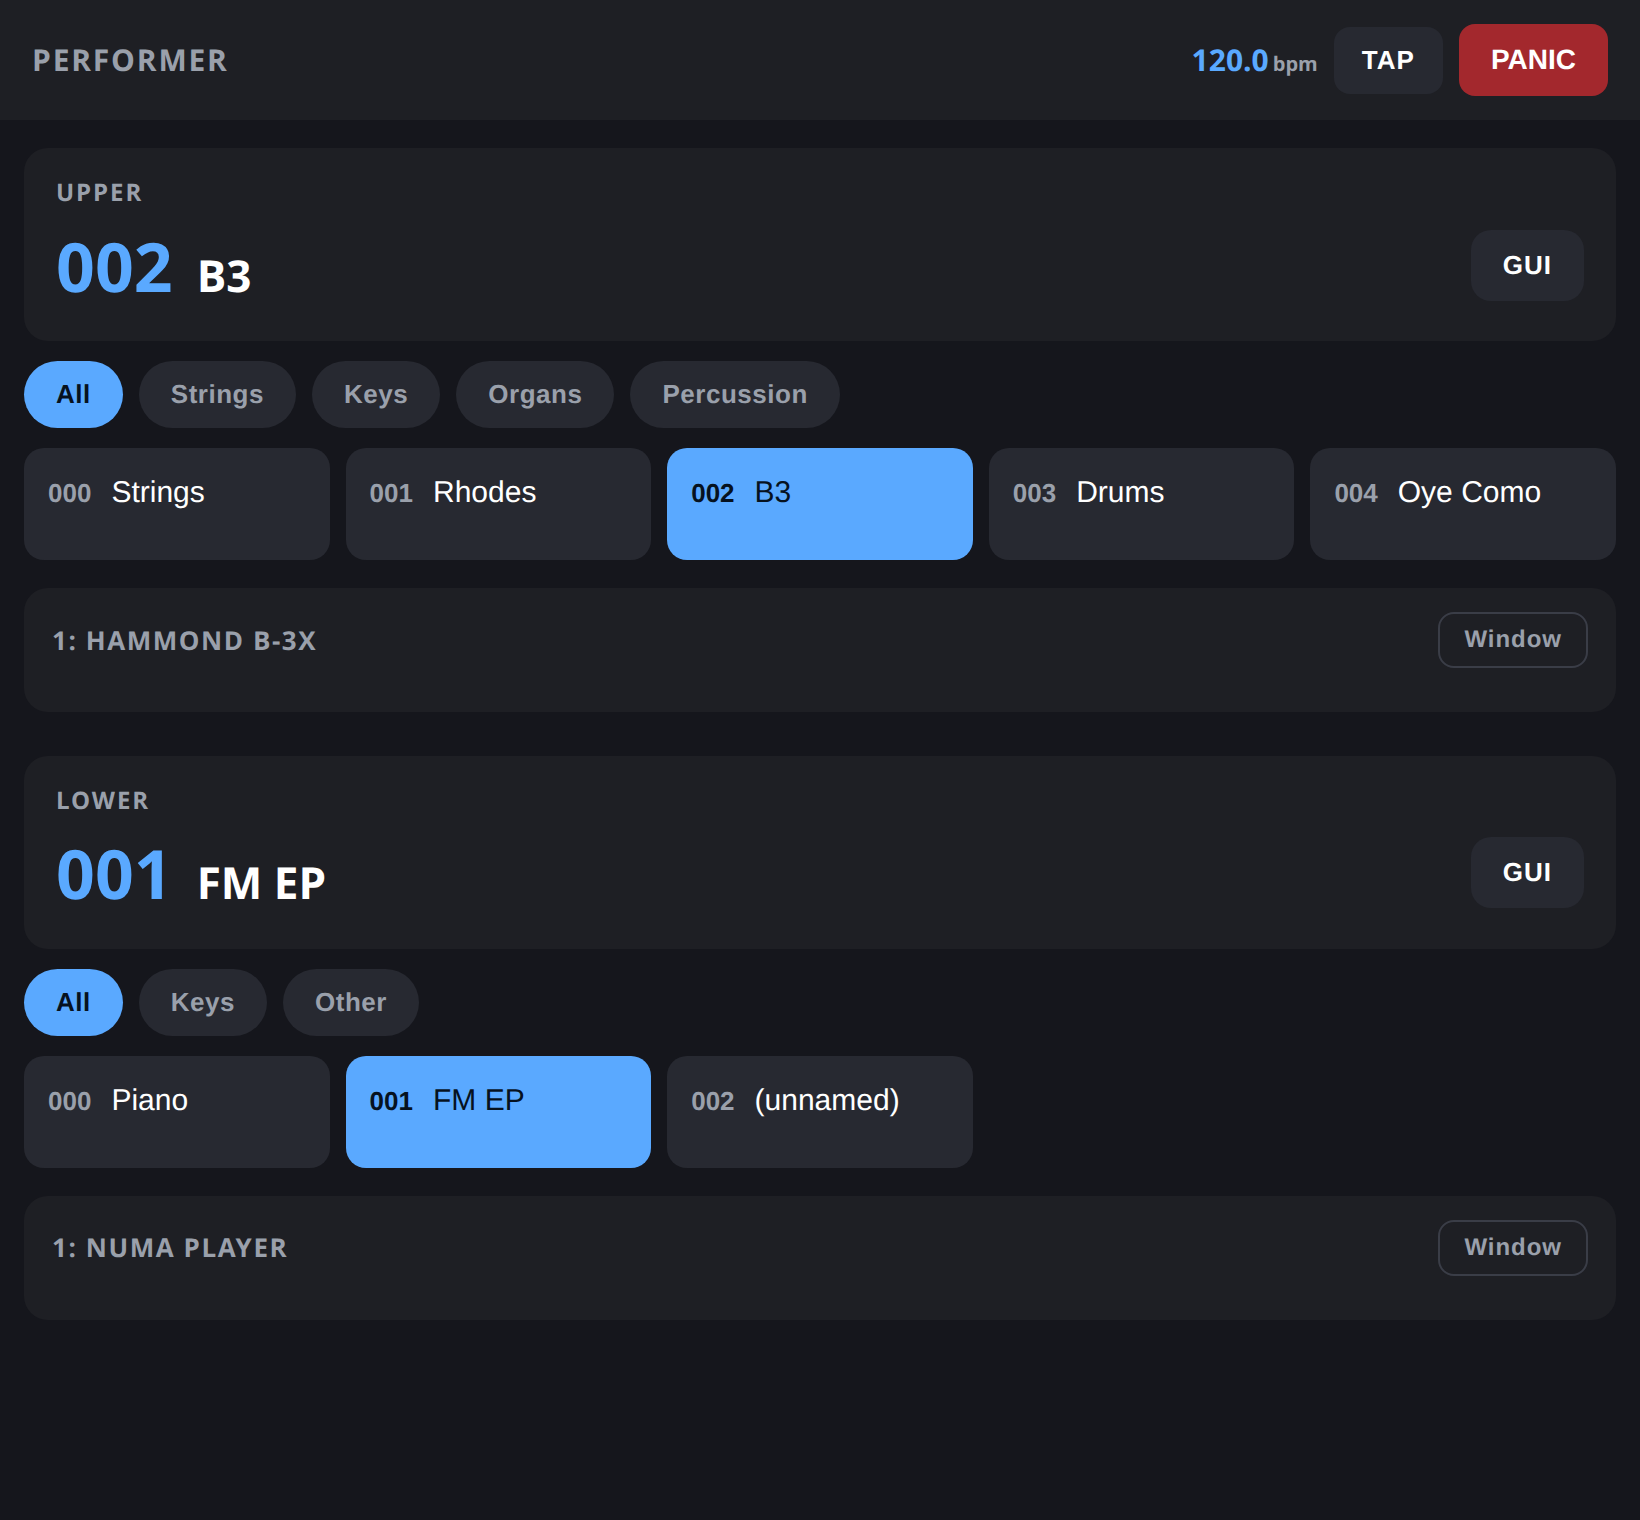
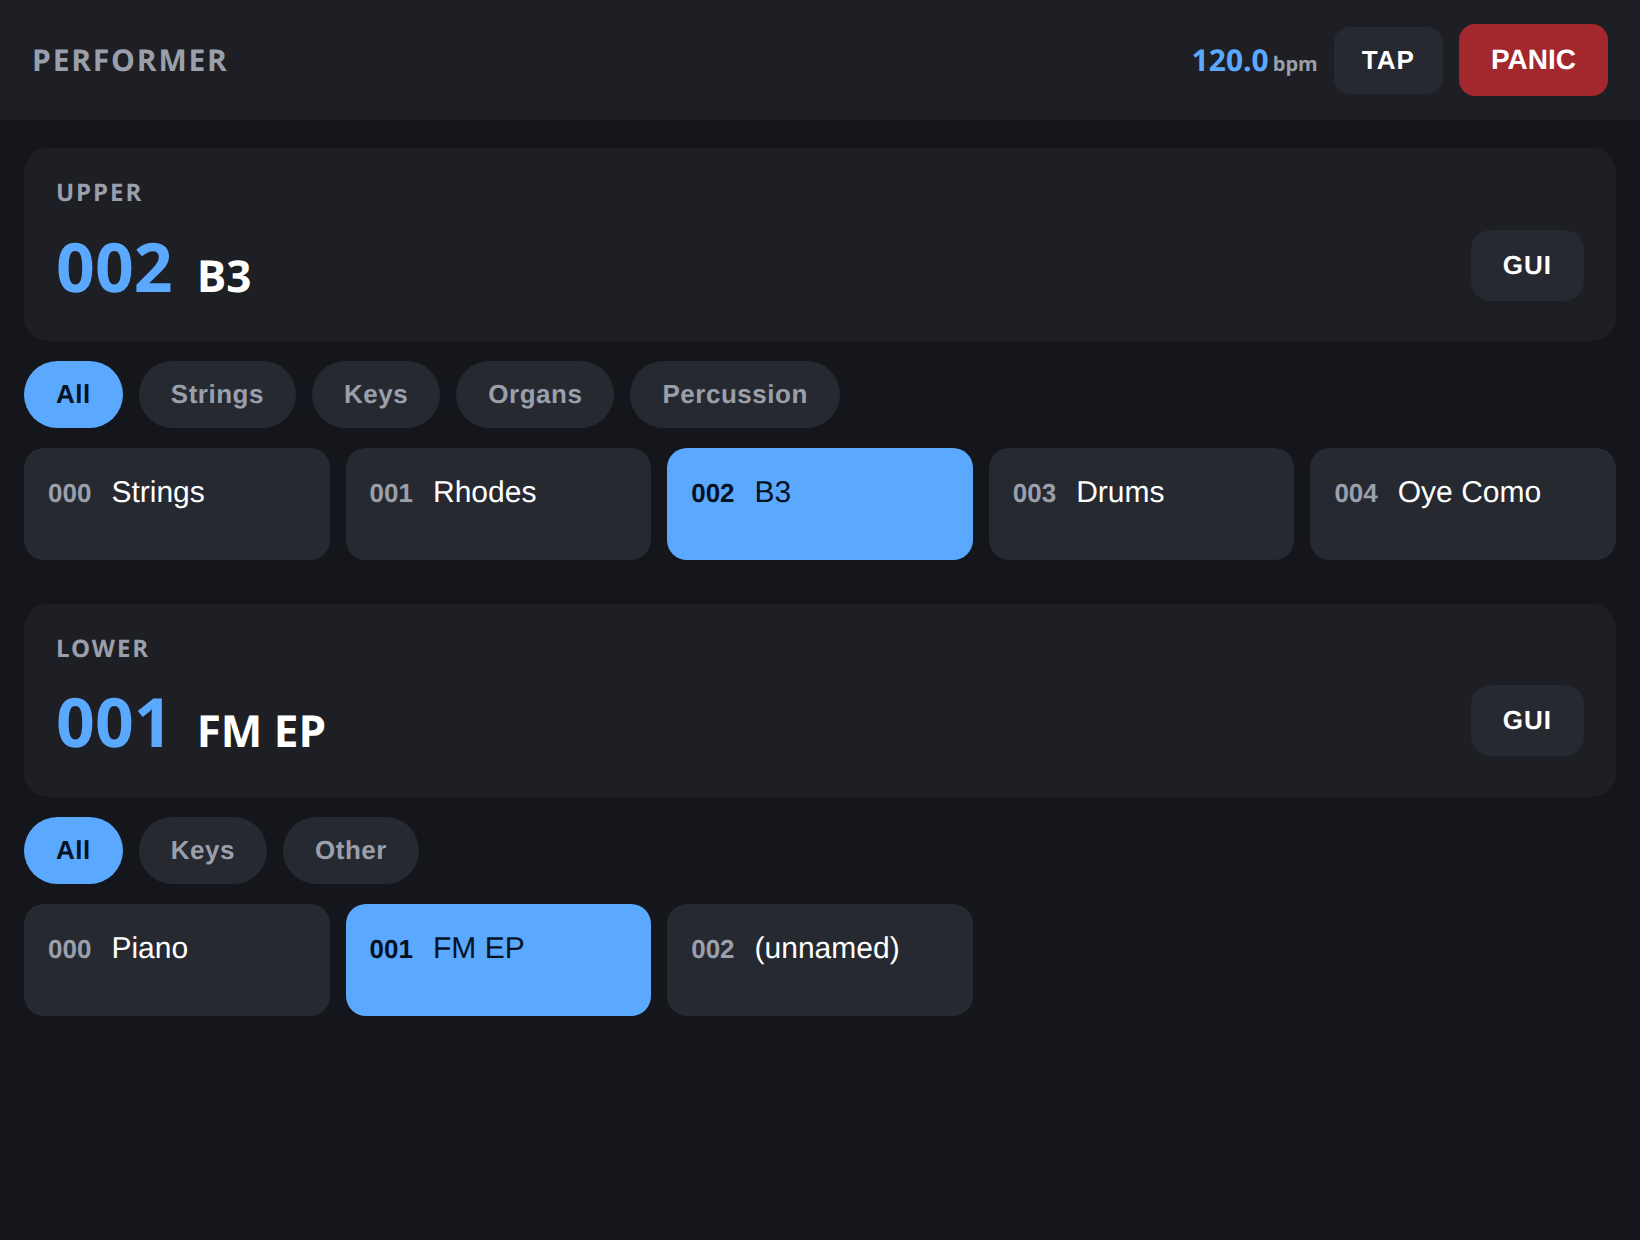
Drop the slot rows: the header's GUI button is the way in now
The row per instrument under each program -- "1: Kontakt 8" and a Window
button -- was the last of the old controls section, kept one commit too long
on the grounds that it reached a plugin by name. With GUI sitting in the
header, and asking which instrument when a program has more than one, it was
only repeating what is already there a scroll higher up.

loadSlots no longer draws anything; it fetches what the program has loaded so
the GUI button knows whether to open a window, offer a choice, or stay hidden.
/api/slots stays for exactly that.

diff --git a/Source/RemoteServer.cpp b/Source/RemoteServer.cpp
@@ -91,12 +91,6 @@ static const char* kIndexHtml = R"HTML(<!DOCTYPE html>
                    padding:9px 16px; font-size:13px; font-weight:700; letter-spacing:.02em; }
   .groups button.on { background:var(--accent); color:#06121f; }
 
-  .slots { margin-top:14px; }
-  .slot { background:var(--panel); border-radius:12px; padding:12px 14px; margin-bottom:10px; }
-  .slot h2 { font-size:13px; color:var(--dim); letter-spacing:.06em; margin:0 0 10px; text-transform:uppercase;
-             display:flex; justify-content:space-between; align-items:center; gap:10px; }
-  .slot h2 button { background:none; border:1px solid #3a3d47; color:var(--dim); border-radius:8px;
-                    padding:6px 12px; font-size:12px; font-weight:700; letter-spacing:.04em; }
   #err { display:none; background:#a3282d; padding:10px 16px; font-size:14px; }
   #gate { display:none; align-items:center; justify-content:center; min-height:70vh; padding:20px; }
   #gate form { text-align:center; max-width:320px; width:100%; }
@@ -254,10 +248,6 @@ function render(s) {
     });
     wrap.appendChild(grid);
 
-    const slots = document.createElement("div");
-    slots.className = "slots"; slots.id = "slots" + i;
-    wrap.appendChild(slots);
-
     root.appendChild(wrap);
     loadSlots(i);
   });
@@ -348,29 +338,18 @@ async function openPluginWindow(i, slot, fallbackName, btn, restore) {
   }
 }
 
+/* What this input's current program has loaded. Nothing is drawn for it: the
+   only thing that needs to know is the GUI button in the header, which uses it
+   to decide between opening a window, asking which instrument, and hiding. */
 async function loadSlots(i) {
-  const host = document.getElementById("slots" + i);
-  if (!host) return;
-  let data;
-  try { data = await api("/api/slots?input=" + i); }
-  catch (e) { if (e.gate) throw e; return; }
-
-  host.innerHTML = "";
-  slotCache[i] = data.slots;
+  try {
+    const data = await api("/api/slots?input=" + i);
+    slotCache[i] = data.slots;
+  } catch (e) {
+    if (e.gate) throw e;
+    slotCache[i] = [];
+  }
   syncGuiButton(i);
-
-  data.slots.forEach(sl => {
-    const box = document.createElement("div"); box.className = "slot";
-
-    const h = document.createElement("h2");
-    const nm = document.createElement("span"); nm.textContent = sl.name;
-    const win = document.createElement("button"); win.textContent = "Window";
-    win.onclick = () => openPluginWindow(i, sl.slot, sl.name, win, "Window");
-
-    h.appendChild(nm); h.appendChild(win);
-    box.appendChild(h);
-    host.appendChild(box);
-  });
 }
 
 /* The plugin's own window is where its controls live now, so the page only has

diff --git a/docs/MANUAL.md b/docs/MANUAL.md
@@ -307,10 +307,6 @@ If the program is a split or a layer with more than one instrument, GUI asks
 which one you meant -- an organ over a pad has two interfaces and only you know
 which. Programs with no plugins have no button at all.
 
-The tablet also lists the program's slots below, labelled the way the desktop
-labels them, each with its own **Window** button. Same thing, reached by name
-rather than by which instrument is first.
-
 The plugin's own window rather than a set of faders built for it, because a
 plugin's controls often cannot be followed any other way. The parameters worth
 putting on a tablet for a Kontakt library are its MIDI controller inputs: values
@@ -325,7 +321,7 @@ any are missing. The stream travels on the same port as the tablet app, so
 nothing extra has to be opened in a firewall, and it stops when Performer does.
 
 The tab is named after the program, so several open plugin windows are told
-apart at a glance, and pressing **Window** again for the same slot brings its
+apart at a glance, and pressing **GUI** again for the same instrument brings its
 existing tab forward rather than opening another.
 
 Pinch to zoom, and drag to move around: the plugin is shown at its real size
